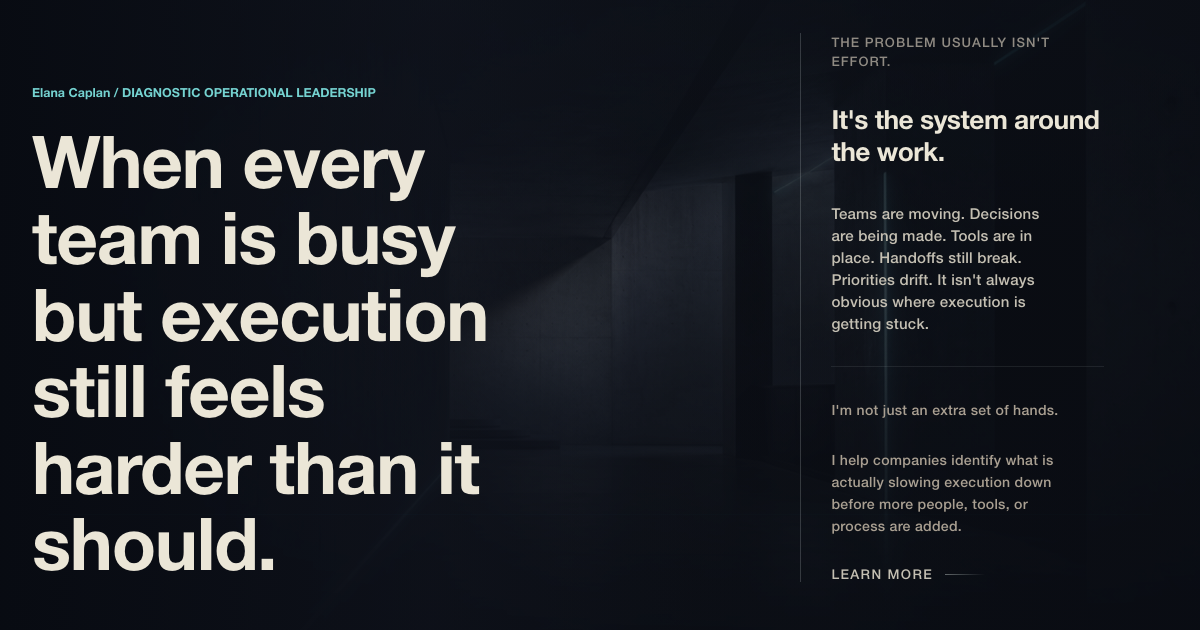
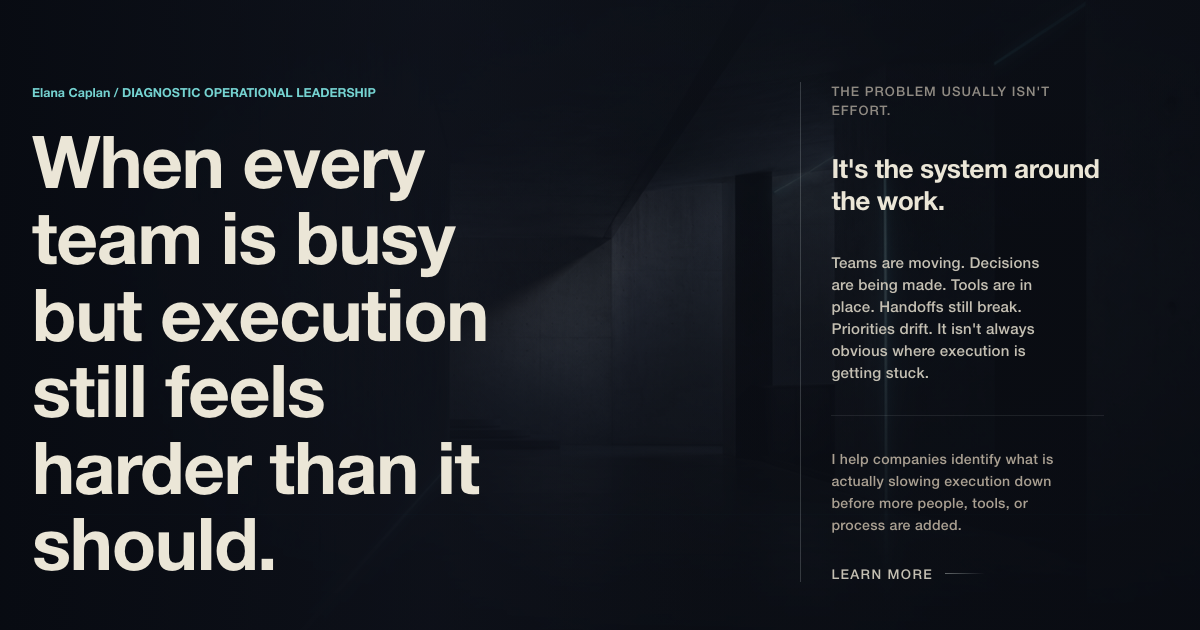
copy: hero, Why/Who I Help, friction, CTA; US spelling; elana@ email; OG refresh

Changed region(s): [[0.6783, 0.0603, 0.925, 0.6032], [0.6783, 0.7238, 0.8633, 0.8444], [0.6783, 0.6333, 0.8942, 0.6635]]

diff --git a/index.html b/index.html
@@ -90,7 +90,6 @@
                   where execution is getting stuck.
                 </p>
               </div>
-              <p class="hero-capline">I'm not just an extra set of hands.</p>
               <p class="hero-capline">
                 I help companies identify what is actually slowing execution down before
                 more people, tools, or process are added.
@@ -109,7 +108,7 @@
             <p class="section-kicker" data-reveal>Why This Approach</p>
             <div class="intro-copy" data-reveal>
               <h2 id="why-title">
-                Execution gets harder when companies solve for symptoms instead of root causes.
+                Companies carrying complexity their current operating model can no longer hold.
               </h2>
               <p>
                 A missed handoff, delayed decision, stalled lead, or broken workflow
@@ -213,7 +212,7 @@
               <div class="case-copy">
                 <p>
                   <strong>Visible issue:</strong>
-                  A large B2B organisation was seeing repeated late-stage escalations
+                  A large B2B organization was seeing repeated late-stage escalations
                   across enterprise deals.
                 </p>
                 <p>
@@ -306,7 +305,7 @@
           <div class="content-grid section-heading section-heading--left">
             <p class="section-kicker" data-reveal>Who I Help</p>
             <h2 id="audience-title" data-reveal>
-              Companies carrying complexity their current operating model can no longer hold.
+              Founder-led, scaling, and enterprise teams.
             </h2>
           </div>
 
@@ -320,12 +319,8 @@
                 visibility, accountability, and consistency become harder to maintain.
               </p>
               <p>
-                I help founder-led companies modernise the operating model
+                I help founder-led companies modernize the operating model
                 behind the business without introducing unnecessary complexity.
-              </p>
-              <p class="audience-capability">
-                Operational diagnostics, workflow redesign, systems modernisation,
-                and embedded leadership for businesses navigating growth and maturity.
               </p>
             </article>
 
@@ -341,10 +336,6 @@
                 I help scaling companies improve alignment, clarify decision
                 rights, and redesign workflows that no longer support the pace or
                 complexity of the company.
-              </p>
-              <p class="audience-capability">
-                Cross-functional alignment, workflow modernisation, and strategic
-                operational leadership for scaling teams.
               </p>
             </article>
 
@@ -396,7 +387,7 @@
               <h3>Embedded Operational Leadership</h3>
               <p>
                 Embedded operational leadership for companies navigating growth,
-                modernisation, transition, or increasing cross-functional complexity.
+                modernization, transition, or increasing cross-functional complexity.
               </p>
             </article>
             <article class="service-panel service-panel--narrow" data-reveal>
@@ -422,21 +413,10 @@
           </div>
 
           <div class="content-grid challenge-table" data-reveal>
-            <div class="challenge-row">
-              <h3>The systems no longer match the business.</h3>
-              <p aria-hidden="true">&nbsp;</p>
-            </div>
-            <div class="challenge-row">
-              <h3>Work depends on memory, exceptions, and workarounds.</h3>
-              <p aria-hidden="true">&nbsp;</p>
-            </div>
-            <div class="challenge-row">
-              <h3>Modernisation is happening without diagnosis.</h3>
-              <p aria-hidden="true">&nbsp;</p>
-            </div>
-            <div class="challenge-row">
-              <h3>Decisions lose context over time.</h3>
-              <p aria-hidden="true">&nbsp;</p>
+            <div class="challenge-row challenge-row--full">
+              <p>
+                The visible issue is usually the entry point. Behind it is something structural: a workflow that no longer matches the business, accountability that has quietly blurred, or decisions that have lost their context over time. That pattern is where the work starts.
+              </p>
             </div>
           </div>
         </section>
@@ -486,17 +466,7 @@
               <h2 id="cta-title">Start with the real issue.</h2>
             </div>
             <div class="cta-panel" data-reveal>
-              <p>
-                In a first conversation, I look at where execution is slowing, what
-                you have already tried, and whether the issue appears local,
-                systemic, or accountability-related.
-              </p>
-              <p>
-                You leave with a clearer view of what is worth fixing before more
-                structure is added, what may not need intervention, and whether
-                I'm the right fit to help.
-              </p>
-              <a class="primary-action" href="mailto:hello@elanacaplan.com">Start a diagnostic conversation</a>
+              <a class="primary-action" href="mailto:elana@elanacaplan.com">Start a diagnostic conversation</a>
             </div>
           </div>
         </section>

diff --git a/styles.css b/styles.css
@@ -1006,6 +1006,10 @@ main > .atmospheric-break {
   border-top: 0;
 }
 
+.challenge-row--full {
+  grid-template-columns: 1fr;
+}
+
 .challenge-head {
   padding-top: 18px;
   padding-bottom: 18px;
